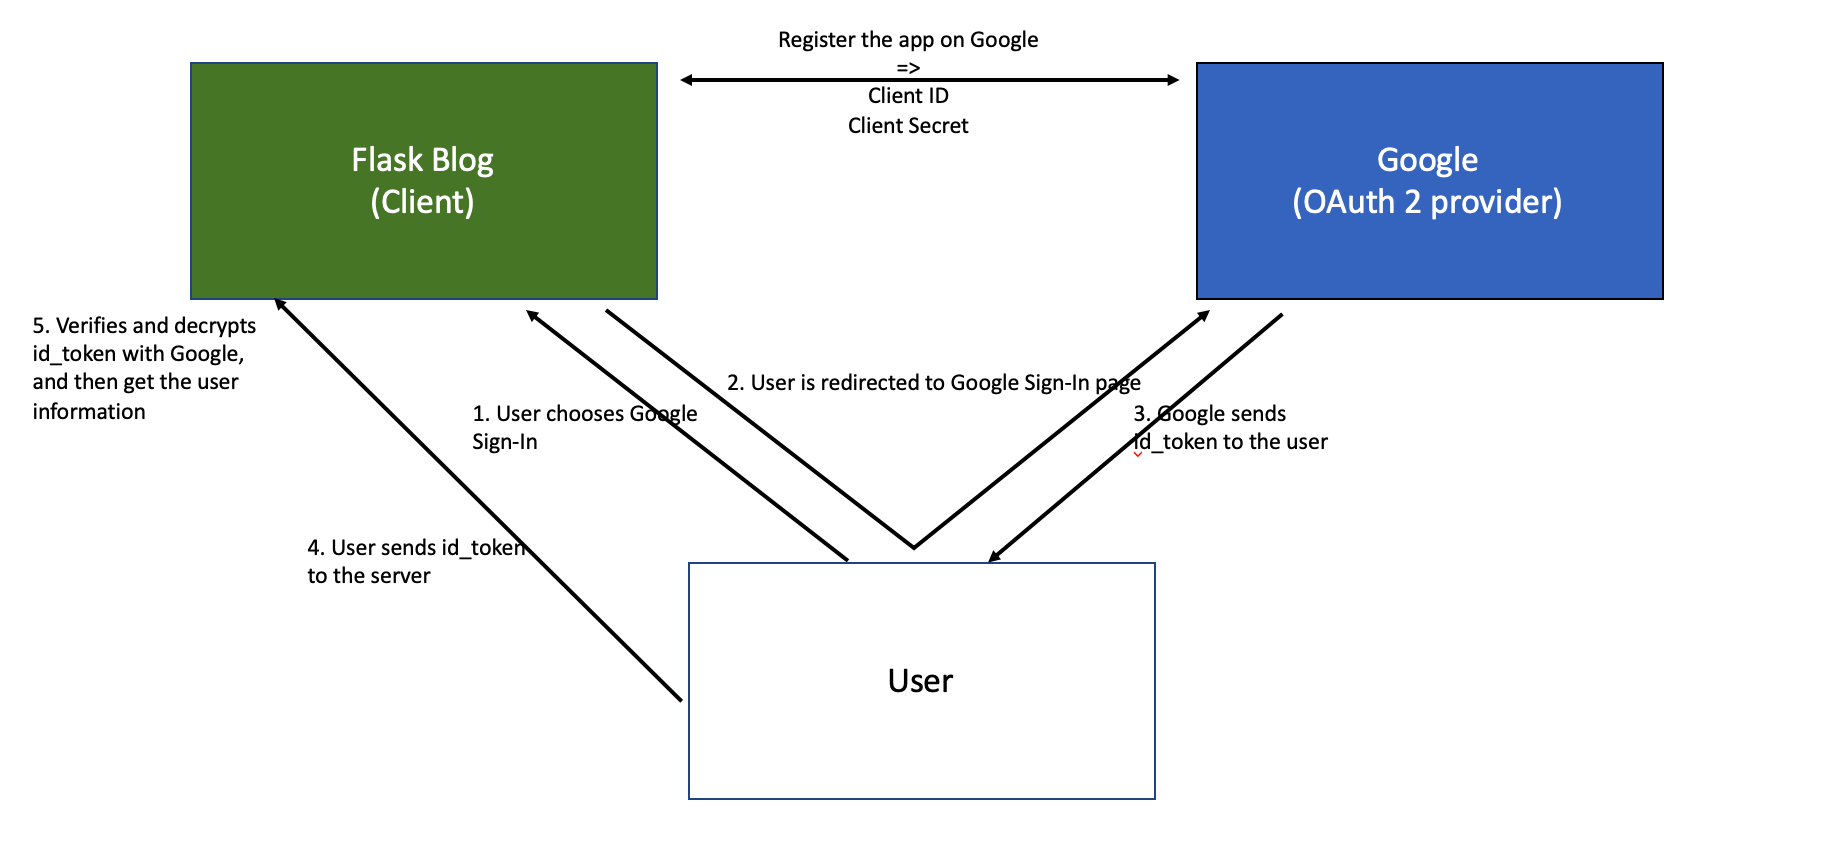
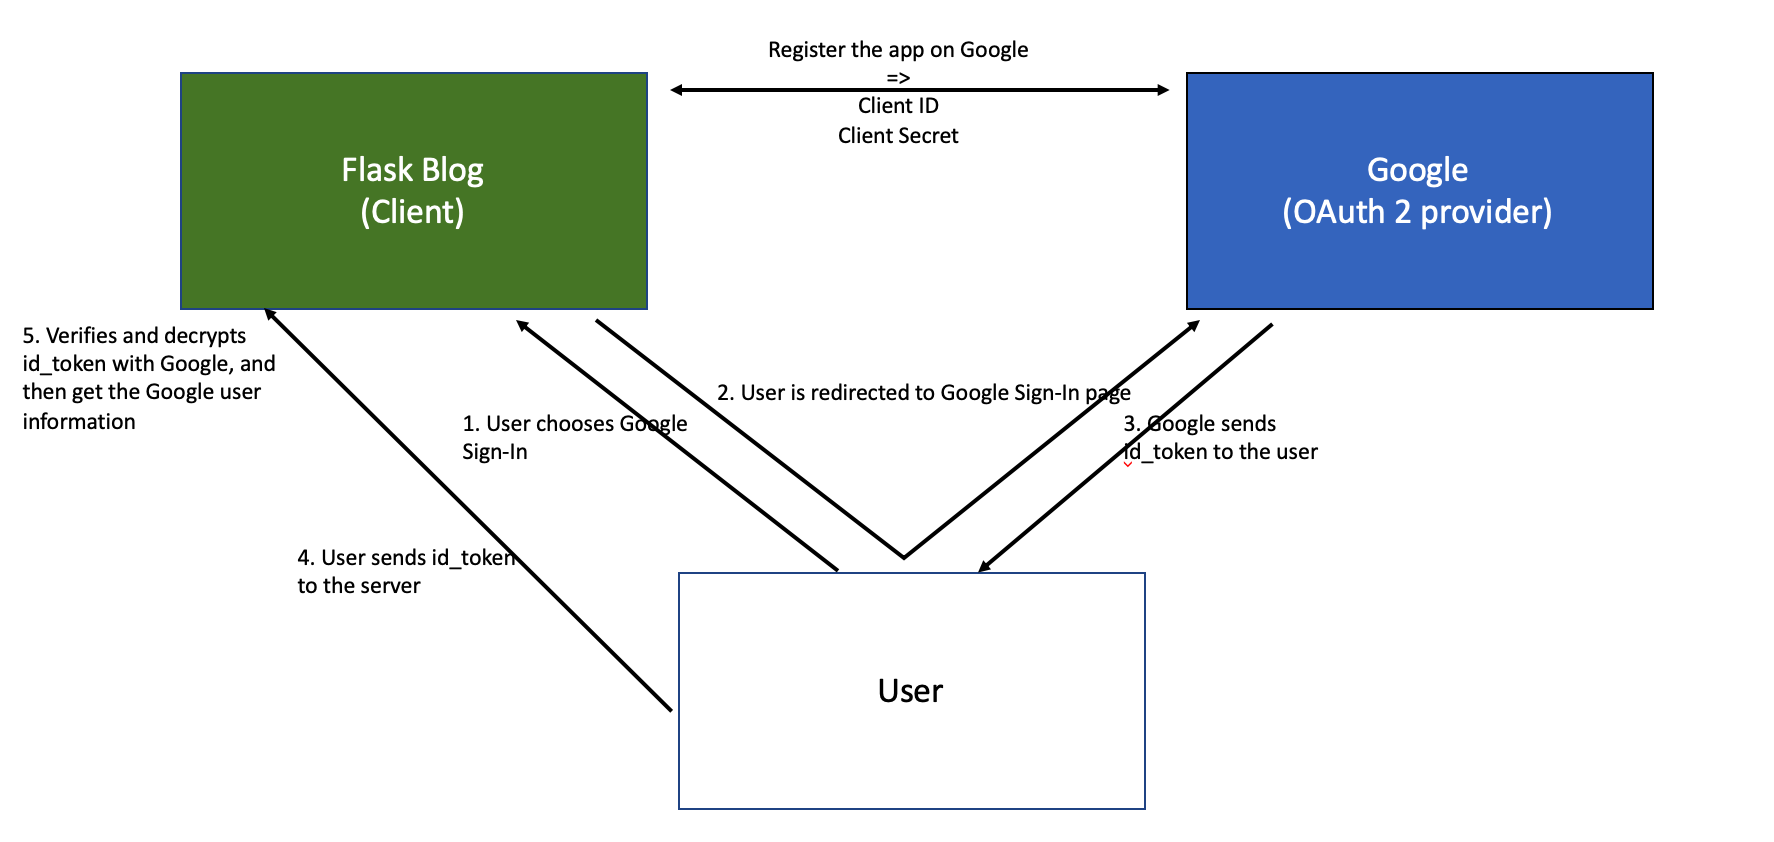
Add Google Sign-In workflow, and rename User.image_file to User.image_filename

diff --git a/flask_app/flask_blog/templates/login.html b/flask_app/flask_blog/templates/login.html
@@ -47,13 +47,13 @@
 
     <script>
         function onSignIn(googleUser) {
-          const profile = googleUser.getBasicProfile();
+          const authResponse = googleUser.getAuthResponse();
+          const idToken = authResponse.id_token;
           // Communicate with the backend
-          // DOT NOT use the profile information to directly communicate with
+          // DOT NOT directly use the profile information to communicate with
           // the backend server!!!
-          // Instead, use the entrypted id_token, which can then be securely
-          // validated on the server
-          const idToken = googleUser.getAuthResponse().id_token;
+          // Instead, use id_token, which can then be securely validated and
+          // decrypted on the server with Google
           fetch(`http://localhost:80/google-login?id_token=${idToken}`, {
             method: 'POST',
             headers: {

diff --git a/flask_app/flask_blog/templates/base.html b/flask_app/flask_blog/templates/base.html
@@ -20,7 +20,7 @@
     {% endif %}
 
     <!--Google Sign-In -->
-    <!-- Implementation according to: -->
+    <!-- Front-end implementation according to: -->
     <!-- https://developers.google.com/identity/sign-in/web/sign-in -->
     <script src="https://apis.google.com/js/platform.js" async defer></script>
     <meta name="google-signin-client_id" content="513794990149-5n8q524podj4l6r7dr1a7ri0klcrir21.apps.googleusercontent.com">

diff --git a/flask_app/flask_blog/auth/routes.py b/flask_app/flask_blog/auth/routes.py
@@ -146,7 +146,7 @@ def _app_login(user_data: dict, remember: bool) -> None:
 def google_login():
     """
     Log-in page for Google users.
-    Implementation according to:
+    Backend implementation according to:
     https://developers.google.com/identity/sign-in/web/backend-auth
     :return:
     """
@@ -155,20 +155,27 @@ def google_login():
     if current_user.is_authenticated:
         return redirect(url_for('main.home'))
 
+    # 1. Verifies and decrypts id_token with Google, to get the Google user
+    #    information
     id_info = id_token.verify_oauth2_token(
         id_token=request.args['id_token'],
         request=g_requests.Request(),
         audience='513794990149-5n8q524podj4l6r7dr1a7ri0klcrir21.apps.googleusercontent.com'
     )
-    # Check issuer
+    # Check issuer (authorization server)
     if id_info['iss'] not in [
         'accounts.google.com',
         'https://accounts.google.com'
     ]:
-        raise ValueError('Wrong issuer')
+        raise ValueError('Wrong issuer (authorization server)')
+
+    # 2. Successfully got the Google user information from Google
+    #    -> Associate a local account with that Google user
+    #       (Similar workflow as user registeration or log-in)
 
     g_user_id = id_info['sub']
     email = id_info['email']
+    pseudo_password = f'{g_user_id},{email}'
     # Check whether this Google user exists
     r = requests.get(f'http://user_service:8000/users/?email={email}')
     if r.status_code == 404:  # Not existing
@@ -178,14 +185,14 @@ def google_login():
             json={
                 'username': g_user_id,
                 'email': email,
-                'password': g_user_id
+                'password': pseudo_password
             }
         )
     # Log-in this Google user
     r = requests.post(
         f'http://user_service:8000/user-auth?email={email}',
         json={
-            'password': g_user_id
+            'password': pseudo_password
         }
     )
     _app_login(user_data=r.json()['data'], remember=True)
@@ -211,7 +218,7 @@ def account():
             update['email'] = form.email.data
         if form.picture.data:
             saved_filename = save_picture(form.username.data, form.picture.data)
-            update['image_file'] = saved_filename
+            update['image_filename'] = saved_filename
         if update:
             r = requests.put(
                 f'http://user_service:8000/users/{current_user.id}', json=update
@@ -220,7 +227,7 @@ def account():
                 current_user.username = form.username.data
                 current_user.email = form.email.data
                 if form.picture.data:
-                    current_user.image_file = saved_filename
+                    current_user.image_filename = saved_filename
                 flash('Your account has been updated!', category='success')
             return redirect(url_for('auth.account'))
     elif request.method == 'GET':  # "GET" request
@@ -230,7 +237,7 @@ def account():
 
     image_file = url_for(
         'static',
-        filename=os.path.join('profile_pics', current_user.image_file)
+        filename=os.path.join('profile_pics', current_user.image_filename)
     )
 
     context = {

diff --git a/post_service/post_service/models.py b/post_service/post_service/models.py
@@ -34,7 +34,9 @@ class User(db.Model):
     # Since we'll frequently query usernames and emails, we create indices on
     # them.
     password = db.Column(db.String(255), nullable=False)
-    image_file = db.Column(db.String(50), nullable=False, default='default.jpg')
+    image_filename = db.Column(
+        db.String(50), nullable=False, default='default.jpg'
+    )
     posts = db.relationship('Post', backref='author', lazy=True)
     comments = db.relationship('Comment', backref='author', lazy=True)
 
@@ -133,7 +135,7 @@ class UserSchema(ma.Schema):
     username = fields.Str(required=True)
     email = fields.Email(required=True)
     password = fields.Str(required=True, load_only=True)
-    image_file = fields.Str()
+    image_filename = fields.Str()
     following_count = fields.Method(
         serialize='_get_following_count', dump_only=True
     )
@@ -180,7 +182,7 @@ class PostSchema(ma.Schema):
                 'id',
                 'username',
                 'email',
-                'image_file',
+                'image_filename',
                 'following_count',
                 'follower_count'
             )

diff --git a/user_service/user_service/models.py b/user_service/user_service/models.py
@@ -36,7 +36,9 @@ class User(db.Model):
     # Since we'll frequently query usernames and emails, we create indices on
     # them.
     password = db.Column(db.String(255), nullable=False)
-    image_file = db.Column(db.String(50), nullable=False, default='default.jpg')
+    image_filename = db.Column(
+        db.String(50), nullable=False, default='default.jpg'
+    )
     posts = db.relationship('Post', backref='author', lazy=True)
 
     # Assume follower_id -> followed_id
@@ -112,7 +114,7 @@ class UserSchema(ma.Schema):
     username = fields.Str(required=True)
     email = fields.Email(required=True)
     password = fields.Str(required=True, load_only=True)
-    image_file = fields.Str()
+    image_filename = fields.Str()
     following_count = fields.Method(
         serialize='_get_following_count', dump_only=True
     )

diff --git a/user_service/user_service/resources/user.py b/user_service/user_service/resources/user.py
@@ -141,8 +141,8 @@ class UserItem(Resource):
             if repeat_email_check:
                 return repeat_email_check
             user.email = update['email']
-        if 'image_file' in update:
-            user.image_file = update['image_file']
+        if 'image_filename' in update:
+            user.image_filename = update['image_filename']
         db.session.commit()
         return {
             'status': 'success',

diff --git a/flask_app/flask_blog/models.py b/flask_app/flask_blog/models.py
@@ -26,7 +26,7 @@ class User(UserMixin):
         self.id = user_data['id']
         self.username = user_data['username']
         self.email = user_data['email']
-        self.image_file = user_data['image_file']
+        self.image_filename = user_data['image_filename']
         self.following_count = user_data['following_count']
         self.follower_count = user_data['follower_count']
         return self

diff --git a/README.md b/README.md
@@ -66,7 +66,7 @@ We separate `user_service` and `post_service` out as a Flask-based web services:
     | Method | Description                            | Request Form Schema                                          | Response Status Code                         |
     | ------ | -------------------------------------- | ------------------------------------------------------------ | -------------------------------------------- |
     | GET    | Returns the user with the specified ID |                                                              | 200 on success                               |
-    | PUT    | Updates the user with the specified ID | `username`: string<br>`email`: string<br>`image_file`: string | 200 on success, 400 on invalid data provided |
+    | PUT    | Updates the user with the specified ID | `username`: string<br>`email`: string<br>`image_filename`: string | 200 on success, 400 on invalid data provided |
   
   * `UserAuth`
   
@@ -148,18 +148,24 @@ In this way, the original Flask-Blog app now becomes a "skeleton" or a "gateway"
   
   ***
   
-  For a **general, high-level introduction to OAuth 2.0 authorization and OpenID Connect authentication**, check out https://github.com/Ziang-Lu/Flask-Blog/blob/master/OAuth2%20and%20OpenID%20Connect/OAuth2%20Authorization%20and%20OpenID%20Connect%20Authentication.md
+  For a **general, high-level introduction to OAuth 2.0 authorization and OpenID Connect authentication, as well as different workflows**, check out this note:
+  
+  https://github.com/Ziang-Lu/Flask-Blog/blob/master/OAuth2%20and%20OpenID%20Connect/OAuth2%20Authorization%20and%20OpenID%20Connect%20Authentication.md
   
   ***
   
-  * Google Sign-In
+  * <u>Google Sign-In</u>
   
-    Simplified Google Sign-In workflow:
+    Google Sign-In workflow in my Flask-Blog app:
   
+    *(Essentially, this is an <u>Implicit Flow for OpenID Connect</u>.)*
+  
+    <img src="https://github.com/Ziang-Lu/Flask-Blog/blob/master/Google%20Sign-In%20Flow.png?raw=true">
     
-  
-    * Front-end implementation is according to https://developers.google.com/identity/sign-in/web/sign-in
-    * Back-end implementation is according to https://developers.google.com/identity/sign-in/web/backend-auth
+    * Front-end implementation according to https://developers.google.com/identity/sign-in/web/sign-in
+    * Back-end implementation according to https://developers.google.com/identity/sign-in/web/backend-auth
+    
+  * <u>GitHub Sign-In</u>
   
   ***
 

diff --git a/OAuth2 and OpenID Connect/OAuth2 Authorization and OpenID Connect Authentication.md b/OAuth2 and OpenID Connect/OAuth2 Authorization and OpenID Connect Authentication.md
@@ -57,7 +57,7 @@ Only difference from authorization code flow:
 
 OpenID Connect is just a <u>thin wrapper around OAuth 2.0</u>, to **also handle authentication** problem.
 
-=> Thus, it focuses on the problem that <u>a user decides to log-in to a third-party application ("client") through an OAuth provider (like Google, etc.), and how does the application ("client") know about the user information from that OAuth provider.</u>
+=> Thus, it focuses on the problem that <u>a user decides to log-in to a third-party application ("client") through an OAuth provider (like Google, etc.), and how does the application ("client") know about the user information ("protected resources") from that OAuth provider.</u>
 
 <br>
 
@@ -72,4 +72,14 @@ Main difference from authorization code flow for OAuth 2.0:
   * Or on server-side, use the access token to fetch more information about the user
 
 <img src="https://github.com/Ziang-Lu/Flask-Blog/blob/master/OAuth2%20and%20OpenID%20Connect/OpenID%20Connect-Authorization%20Code%20Flow.png?raw=true">
+
+<br>
+
+#### Implicit Flow for OpenID Connect
+
+Authorization Code Flow for OpenID Connect  =>  Implicit Flow for OpenID Connect
+
+=
+
+Authorization Code Flow for OAuth 2  =>  Implicit Flow for OAuth 2
 
